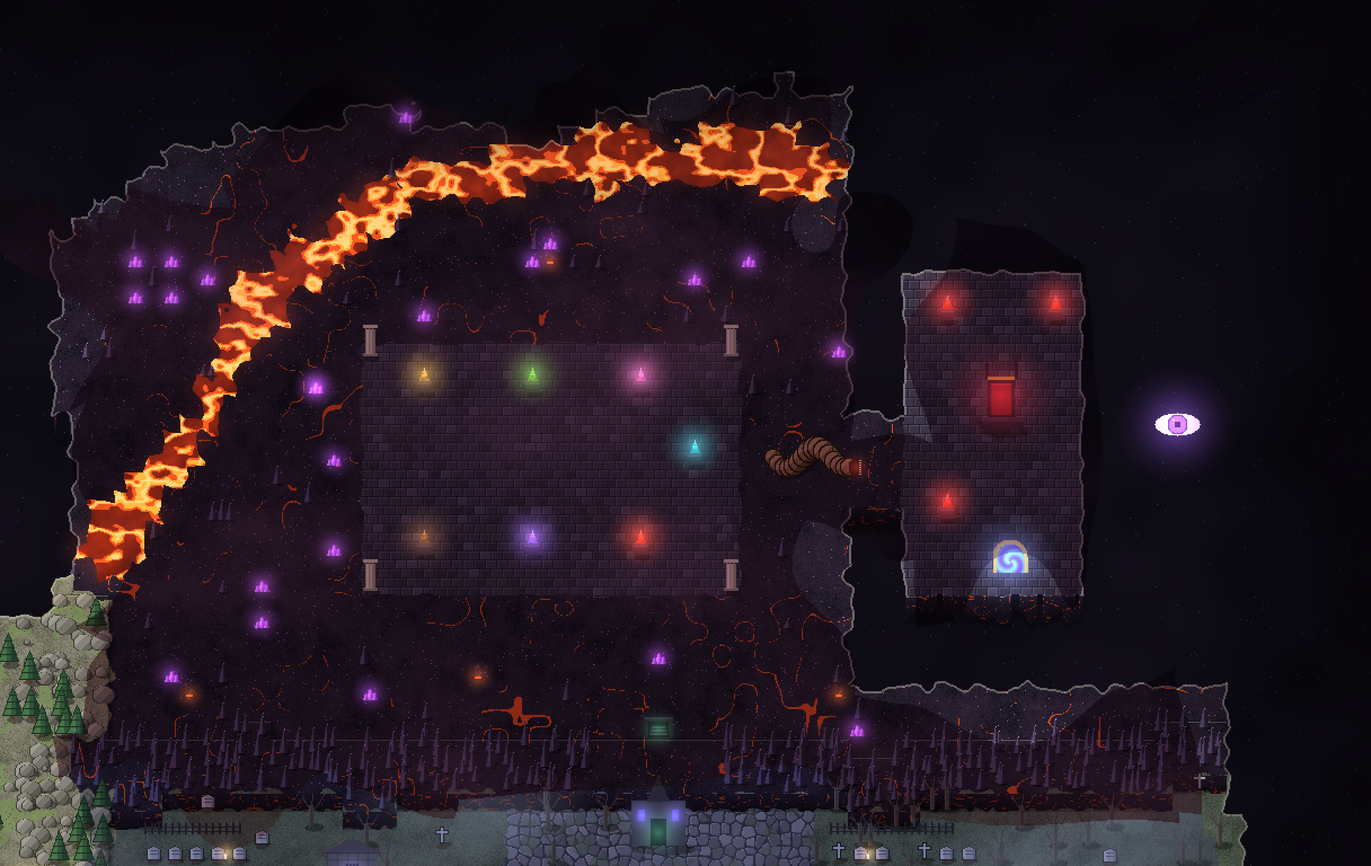
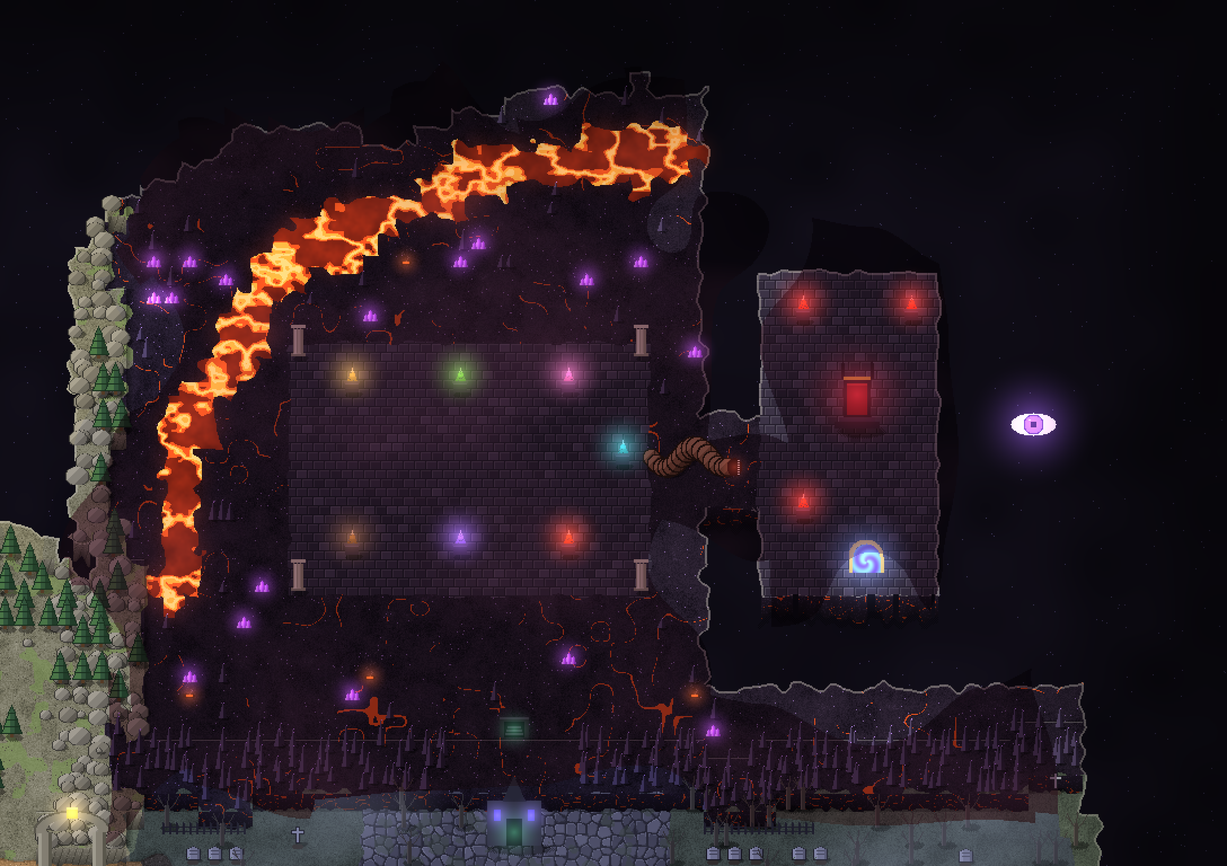
맵 시안 — 4격을 거인들의 땅답게 크게: 가운데에서 위아래로 부푼 고원(약 두 배), 숲 쪽으로만 트이고 왕국 · 지하수로와는 낭떠러지, 바위 등성이를 동쪽으로 밀고 5 · 6격을 그만큼 옮김. 거인 키만 한 바위 · 돌무지 · 땅에 꽂힌 거인의 칼 · 뼈 하나 더. 숲에서 4격 가는 흙길은 좁게

diff --git a/design/map-concept/render.js b/design/map-concept/render.js
@@ -163,17 +163,28 @@ mass(6, 28, 67, 62, 9, 4, 12);
 mass(9, 60, 65, 92, 9, 4, 13);
 box(8, 2, 24, 22, GRASS);                             // 성 자리는 깎이지 않게
 blob(40, 99, 21, 10, GRASS, 0, 0, 0.3, 14);           // 맨 아래 — 처음을 품은 바위
-mass(60, 35, 108, 62, 6, 4, 15);                      // 가운데 목
-mass(103, 5, 168, 89, 14, 5, 19);                     // 오른쪽 덩이
-// 오른쪽 덩이의 왼쪽 아래는 목 밑에서 비스듬히 비어 있음
-for (let y = 60; y < H; y++) for (let x = 100; x < 126; x++) if (y > 66 + (x - 103) * 1.14 + (fbm(x * 0.12, y * 0.12, 18) - 0.5) * 4) paint(x, y, VOID);
+const colMask = ter.map(t => (t !== VOID ? 1 : 0));   // 왼쪽 기둥 자리 (격 나누기에 씀)
+// 가운데 — 숲과 맞닿는 띠, 그리고 위아래로 크게 부푼 거인의 고원
+mass(62, 33, 118, 62, 6, 4, 15);
+mass(68, 22, 114, 74, 22, 4, 16);
+const neckMask = ter.map((t, i) => (t !== VOID && !colMask[i] ? 1 : 0));
+mass(113, 5, 168, 89, 14, 5, 19);                     // 오른쪽 덩이
+// 오른쪽 덩이의 왼쪽 아래는 고원 밑에서 비스듬히 비어 있음
+for (let y = 60; y < H; y++) for (let x = 106; x < 136; x++) if (!neckMask[idx(x, y)] && y > 76 + (x - 113) * 0.9 + (fbm(x * 0.12, y * 0.12, 18) - 0.5) * 4) paint(x, y, VOID);
+// 고원은 숲 쪽으로만 트이고, 왕국 · 지하수로와는 낭떠러지로 떨어짐
+for (let y = 0; y < H; y++) for (let x = 60; x < 80; x++) {
+  if (!neckMask[idx(x, y)] || (y >= 32 && y <= 61)) continue;
+  let near = false;
+  for (let dy = -3; dy <= 3 && !near; dy++) for (let dx = -3; dx <= 3; dx++) if (inMap(x + dx, y + dy) && colMask[idx(x + dx, y + dy)]) { near = true; break; }
+  if (near) paint(x, y, VOID);
+}
 
 // ---- 격 나누기 ----
 const wob = (v, s, a) => (vnoise(v * 0.15, 0.5, s) - 0.5) * a;
-const RIDGE = y => (y >= 49 && y <= 55 ? 102 : 102 + wob(y, 52, 4));   // 4격 | 5 · 6격 바위 등성이 (쐐기돌 아치 자리는 곧게)
+const RIDGE = y => (y >= 45 && y <= 51 ? 112 : 112 + wob(y, 52, 4));   // 4격 | 5 · 6격 바위 등성이 (쐐기돌 아치 자리는 곧게)
 const CLIFF = x => (x >= 126 && x <= 146 ? 42 : 42 + wob(x, 53, 3));  // 5격 | 6격 흑요석 벼랑 (대성당 자리는 곧게)
 function zoneAt(x, y) {
-  if (x <= 66 + wob(y, 55, 8) || (x < 80 && (y < 34 || y > 62))) return y >= 93 ? 7 : y >= 62 ? 1 : y >= 31 ? 2 : 3;   // 숲과 고개 사이는 들쭉날쭉
+  if (colMask[idx(x, y)]) return y >= 93 ? 7 : y >= 62 ? 1 : y >= 31 ? 2 : 3;
   if (x < RIDGE(y)) return 4;
   return y < CLIFF(x) ? 6 : 5;
 }
@@ -193,9 +204,9 @@ for (let x = 0; x <= 70; x++) if (ter[idx(x, 62)] !== VOID && zoneAt(x, 62) === 
 blob(39, 101, 9, 6, COBBLE, 7, 0, 0.3, 13);
 box(37, 92, 41, 96, COBBLE, 7, 0);
 // 4격 | 5 · 6격: 바위 등성이 — 쐐기돌 아치(거인왕)가 선 세 칸 고개만 트임
-for (let y = 33; y <= 64; y++) for (let x = 95; x <= 110; x++) {
+for (let y = 0; y < H; y++) for (let x = 104; x <= 122; x++) {
   if (ter[idx(x, y)] === VOID || Math.abs(x - RIDGE(y)) > 2.5) continue;
-  paint(x, y, ROCKY, 4, y >= 51 && y <= 53 ? 1 : 3);
+  paint(x, y, ROCKY, 4, y >= 47 && y <= 49 ? 1 : 3);
 }
 // 5격 | 6격: 흑요석 벼랑 — 대성당 밑 묘실(불사의 왕)로만 지나감
 for (let x = 100; x < W; x++) for (let y = 36; y <= 48; y++) {
@@ -215,14 +226,14 @@ for (let y = 64; y <= 91; y++) for (const x of [29, 30, 46, 47]) paint(x, y, CAN
 
 // ---- 길 (흙 — 픽셀로 그림) ----
 trail([[38, 61], [38, 56], [38, 51], [39, 45], [42, 39], [44, 34], [44, 32]], 2.2, 2);                          // 수문 → 숲 → 왕국 성문
-trail([[38, 51], [46, 50], [54, 51], [62, 49], [70, 50], [78, 48], [86, 50], [94, 52], [106, 52]], 2.4, 2);     // 숲 동쪽 큰길 → 4격 고개 → 쐐기돌 아치
+trail([[38, 51], [46, 50], [54, 51], [62, 49], [70, 50], [78, 48], [86, 49], [94, 48], [102, 48], [116, 48]], 1.6, 2);   // 숲 동쪽 길 → 4격 고원 → 쐐기돌 아치
 trail([[38, 51], [31, 48], [25, 46.5], [19, 46], [15, 45]], 1.4, 2);                                           // 서쪽 — 통나무 다리 건너 오크 야영지
 trail([[46, 50], [50, 45], [54, 42]], 1.1, 2);                                                                 // 마녀의 오두막으로 가는 좁은 길
-trail([[80, 49], [80, 45]], 1.5, 4);                                                                           // 눈 덮인 봉우리 돌계단
-trail([[86, 50], [89, 47]], 1.5, 4);                                                                           // 돌 고리
-trail([[106, 52], [109, 53], [116, 56], [124, 57], [130, 53], [136, 49]], 2.2, 5);                              // 아치 → 대성당
-trail([[116, 56], [118, 64], [124, 72], [132, 76]], 1.5, 5);
-trail([[130, 53], [140, 61], [150, 64], [158, 70]], 1.5, 5);
+trail([[88, 48.5], [88, 37]], 1.3, 4);                                                                         // 눈 덮인 봉우리 돌계단
+trail([[96, 48], [98, 44]], 1.3, 4);                                                                           // 돌 고리
+trail([[116, 48], [118, 52], [126, 55], [132, 52], [136, 49]], 2.2, 5);                                         // 아치 → 대성당
+trail([[126, 55], [124, 64], [128, 72], [134, 78]], 1.5, 5);
+trail([[132, 52], [142, 60], [152, 64], [158, 70]], 1.5, 5);
 
 // ---- 3격 왕국 — 성문에서 북서쪽 성까지 옛 큰길 · 깨진 포석 광장 · 성 ----
 road([[44, 28], [41, 22], [33, 17], [23, 14]], 3, COBBLE, 3, 2, 0.4);
@@ -230,17 +241,18 @@ blob(36, 9, 5, 3.5, TILES, 3, 2, 0.5, 31);        // 옛 광장 (마른 분수)
 box(11, 5, 21, 19, TILES, 8, 2);                  // 몰락한 왕의 성 — 어둑한 돌바닥의 큰 방 (격 3 의 일부, 빛만 따로)
 
 // ---- 4격 — 눈 덮인 봉우리 · 바위 단 ----
-blob(80, 40, 7, 4, SNOW, 4, 2, 0.35, 16);
-blob(94, 58, 4.5, 2.4, ROCKY, 4, 2, 0.4, 23);
+blob(88, 31, 11, 5.5, SNOW, 4, 2, 0.35, 16);
+blob(84, 64, 7, 3.5, ROCKY, 4, 2, 0.4, 23);
+blob(100, 60, 5, 3, ROCKY, 4, 2, 0.4, 24);
 
 // ---- 5격 — 네 말의 기사 광장 · 대성당 앞뜰 ----
-blob(126, 66, 5, 3, PAVE, 5, 1, 0.3, 26);
+blob(130, 61, 4.5, 2.8, PAVE, 5, 1, 0.3, 26);
 box(128, 44, 144, 49, PAVE, 5, 1);
 
 // ---- 6격 — 용암 강 · 칠죄종 홀 · 벌레의 굴 · 왕좌 ----
-road([[105, 30], [110, 24], [114, 16], [122, 10], [134, 8], [146, 9]], 2.4, LAVA, 6, 1, 0.8, 41);
-box(120, 19, 140, 32, TILES, 6, 1);               // 칠죄종 홀 바닥
-box(141, 23, 149, 27, OBSID, 6, 1);               // 벌레가 막은 굴
+road([[117, 32], [118, 24], [123, 14], [134, 9], [146, 8]], 2.4, LAVA, 6, 1, 0.8, 41);
+box(124, 19, 143, 32, TILES, 6, 1);               // 칠죄종 홀 바닥
+box(144, 23, 149, 27, OBSID, 6, 1);               // 벌레가 막은 굴
 box(150, 15, 159, 32, TILES, 6, 1);               // 왕좌의 방
 // 왕좌의 방은 어둠으로 내민 끝 — 세계수를 먹는 벌레의 굴로만 들어감
 for (let y = 0; y <= 37; y++) for (let x = 147; x < W; x++) {
@@ -920,6 +932,21 @@ function giantSilhouette(px, py) {
     glow(px, py - 43, 12, [255, 230, 160], 0.3);
   });
 }
+function giantSword(px, py) {
+  // 땅에 꽂힌 거인의 칼 — 사람 몇 배 길이, 녹슬고 이가 빠짐
+  rubble(px, py + 2, 4, '#8a8474');
+  add(py, () => {
+    shadow(px + 14, py + 2, 22, 4);
+    for (let j = 0; j < 64; j++) for (let i = -4; i <= 4; i++) {
+      if (j > 60 && Math.abs(i) > 4 - (j - 60)) continue;
+      if (hash(i, j, 121) < 0.04 && Math.abs(i) === 4) continue;                // 이가 빠진 날
+      put(px + i, py - j, hex(i < -1 ? '#c8ccd0' : i > 1 ? '#6e7276' : (j % 9 === 0 ? '#8a6a52' : '#a0a4a8')));
+    }
+    rect(px - 14, py - 68, 29, 5, hex('#5a4a3a')); rect(px - 14, py - 68, 29, 1, hex('#8a7a62'));
+    rect(px - 3, py - 86, 7, 18, hex('#4a3626')); for (let j = 0; j < 18; j += 3) rect(px - 3, py - 86 + j, 7, 1, hex('#2e2016'));
+    ellipse(px + 0.5, py - 89, 5, 4, hex('#7a6a52'));
+  });
+}
 function horse(px, py, col) {
   add(py, () => {
     shadow(px + 3, py + 2, 12, 3);
@@ -1198,7 +1225,6 @@ for (const [x, y] of [[47, 57], [56, 45], [30, 40], [16, 56], [60, 57], [14, 36]
 hut(54, 40); keepClear(54, 40, 4);
 orcCamp(13, 44); keepClear(13, 44, 4.5);
 logBridge(21, 46, 4);
-for (const [x, y, s] of [[57, 52.6, 1], [63, 47.4, 1.1], [69, 52.4, 1], [75, 47.6, 1.1]]) footprint(...P(x, y, 8, 8), s);   // 숲 밖으로 이어지는 거인의 발자국
 for (let k = 0; k < 110; k++) { const x = 6 + hash(k, 1, 70) * 61, y = 31 + hash(k, 2, 70) * 31; if (ter[idx(x | 0, y | 0)] === GRASS && bio[idx(x | 0, y | 0)] === 2) mushroom(...P(x | 0, y | 0, 4 + hash(k, 3, 70) * 8 | 0, 10), hash(k, 4, 70) < 0.5 ? '#7ad0ff' : '#c890ff'); }
 for (let k = 0; k < 90; k++) { const x = 6 + hash(k, 5, 71) * 61, y = 31 + hash(k, 6, 71) * 31; if (bio[idx(x | 0, y | 0)] === 2) firefly(x * T, y * T); }
 
@@ -1233,26 +1259,30 @@ for (const x of [15, 17, 19, 21]) for (const y of [10, 17]) column(...P(x, y, 8,
 lightUp(...P(14, 13, 8, 4), 40, 0.85); glow(...P(14, 13, 8, 0), 30, [200, 190, 160], 0.25);
 add(14 * T, () => { const [x, y] = P(14, 12, 8, 0); for (let k = 0; k < 14; k++) put(x - 12 + hash(k, 1, 103) * 24, y - 10 + hash(k, 2, 103) * 30, [240, 232, 210], 0.6); });
 
-// 4격 거인의 고개 — 숲이 성겨지며 이어지는 높은 풀밭에서 바위 고원으로. 전나무 · 큰 바위 · 거인 뼈 · 원소 거인 넷의 돌 고리
-// 숲 가장자리 너머에 앉은 외눈 거인이 큰길에서 보임. 동쪽 바위 등성이는 쐐기돌 아치(거인왕)가 선 고개 하나로만 넘음
-for (const [x, y, r] of [[86, 38, 8], [95, 40, 7], [88, 59, 8], [97, 55, 6], [71, 44, 6]]) rock(...P(x, y, 8, 10), r, '#8e8878');
-ribcage(...P(83, 56, 8, 12), 1.6); skull(...P(89, 54, 8, 12), 1.4);
-for (const [x, y, c] of [[90, 43, '#a8a49a'], [93, 45, '#7ad0ff'], [90, 47, '#ff7a3a'], [87, 45, '#e8f0ff']]) monolith(...P(x, y, 8, 12), c);   // 돌 · 서리 · 불 · 구름
-keepClear(90, 45, 4);
-giantSilhouette(...P(73, 57, 8, 12)); keepClear(73, 57, 3);
-stairs(79, 44, 2);                                                            // 눈 덮인 봉우리로 오르는 돌계단
-for (let k = 0; k < 18; k++) { const x = 72 + hash(k, 1, 73) * 18, y = 35 + hash(k, 2, 73) * 10; if (ter[idx(x | 0, y | 0)] === SNOW) crystal(...P(x | 0, y | 0, 8, 12), '#c8f0ff', 7); }
+// 4격 거인의 고개 — 숲이 성겨지며 이어지는 높은 풀밭에서 위아래로 넓게 부푼 바위 고원으로.
+// 북쪽 눈 덮인 봉우리 · 남쪽 바위 단 · 큰 바위와 돌무지 · 쓰러진 거인의 뼈 · 원소 거인 넷의 돌 고리 · 전나무
+// 숲 가장자리 너머에 앉은 외눈 거인이 길에서 보임. 동쪽 바위 등성이는 쐐기돌 아치(거인왕)가 선 고개 하나로만 넘음
+for (const [x, y, r] of [[76, 40, 15], [94, 54, 12], [104, 36, 16], [92, 69, 13], [106, 60, 14], [72, 44, 9], [100, 26, 11], [86, 71, 11], [79, 52, 9]]) rock(...P(x, y, 8, 10), r, '#8e8878');   // 거인 키만 한 바위
+for (const [x, y] of [[102, 66], [70, 37], [96, 33]]) { rock(...P(x, y, 8, 12), 15, '#8a8474'); rock(...P(x, y, 9, -2), 11, '#9a9484'); rock(...P(x, y, 8, -13), 7, '#a8a292'); rock(...P(x, y, 8, -21), 4, '#b4ae9e'); }   // 돌무지 — 사람 키의 몇 배
+ribcage(...P(80, 57, 8, 12), 1.8); skull(...P(89, 56, 8, 12), 1.6); ribcage(...P(100, 71, 8, 12), 1.3, '#d8d0bc');
+giantSword(...P(95, 64, 8, 12));                                              // 땅에 꽂힌 채 버려진 거인의 칼
+for (const [x, y, c] of [[98, 39, '#a8a49a'], [101, 41, '#7ad0ff'], [98, 43, '#ff7a3a'], [95, 41, '#e8f0ff']]) monolith(...P(x, y, 8, 12), c);   // 돌 · 서리 · 불 · 구름
+keepClear(98, 41, 4);
+giantSilhouette(...P(72, 59, 8, 12)); keepClear(72, 59, 3);
+for (const [x, y, s] of [[57, 51.6, 1], [63, 47.8, 1.1], [69, 51.2, 1], [75, 47.4, 1.1], [81, 49.8, 1]]) footprint(...P(x, y, 8, 8), s);   // 숲 밖으로 이어지는 거인의 발자국
+stairs(87, 36, 2);                                                            // 눈 덮인 봉우리로 오르는 돌계단
+for (let k = 0; k < 30; k++) { const x = 76 + hash(k, 1, 73) * 24, y = 24 + hash(k, 2, 73) * 13; if (ter[idx(x | 0, y | 0)] === SNOW) crystal(...P(x | 0, y | 0, 8, 12), '#c8f0ff', 7); }
 // 바위 등성이 — 큰 바위가 빽빽이 (숲의 나무처럼 길을 막음)
-for (let y = 33; y <= 64; y++) for (let x = 95; x <= 110; x++) {
+for (let y = 0; y < H; y++) for (let x = 104; x <= 122; x++) {
   const i = idx(x, y);
   if (ter[i] !== ROCKY || hgt[i] !== 3) continue;
   for (let k = 0; k < 2; k++) if (hash(x, y, 105 + k) < 0.6) rock(...P(x, y, 3 + hash(x, y, 107 + k) * 10 | 0, 4 + hash(x, y, 109 + k) * 10 | 0), 6 + hash(x, y, 111 + k) * 5, k ? '#7e7868' : '#8e8878');
 }
-keystoneArch(101, 52); keepClear(101, 52, 3);
+keystoneArch(111.5, 48); keepClear(112, 48, 3);
 
 // 5격 시체가 걷는 도시 — 쐐기돌 아치를 넘으면 바로. 쇠울타리로 두른 묘지 구획(묘비가 줄지어) · 영묘 · 본 드래곤 · 네 말의 기사 석상 · 까마귀
 // 북쪽 흑요석 벼랑에 기대 선 대성당 — 그 밑 묘실 계단은 불사의 왕이 막음, 벼랑 너머가 6격
-for (const [x0, y0, w, h] of [[108, 46, 6, 3], [146, 46, 8, 4], [107, 60, 6, 4], [134, 66, 7, 4], [126, 80, 8, 4], [150, 74, 7, 4], [114, 70, 6, 3], [156, 64, 6, 3], [138, 74, 5, 3]]) {
+for (const [x0, y0, w, h] of [[117, 46, 5, 3], [147, 46, 7, 4], [116, 59, 6, 4], [136, 66, 7, 4], [126, 81, 7, 3], [150, 74, 7, 4], [118, 68, 5, 3], [156, 62, 6, 3], [138, 74, 5, 3]]) {
   fence(...P(x0, y0, 0, 4), w * 2 + 3); fence(...P(x0, y0 + h, 0, 14), w * 2 + 3);
   for (let y = y0 + 1; y < y0 + h; y += 1.5) for (let x = x0 + 0.5; x < x0 + w; x += 1.2) {
     if (hash(x * 10, y * 10, 73) < 0.15) continue;                          // 빈 자리 몇 군데 — 파헤쳐진 무덤
@@ -1260,29 +1290,29 @@ for (const [x0, y0, w, h] of [[108, 46, 6, 3], [146, 46, 8, 4], [107, 60, 6, 4],
     if (hash(x * 3, y * 7, 75) < 0.12) candle(x * T + 6, y * T + 10);
   }
 }
-for (const [x, y] of [[112, 56], [146, 58], [120, 82]]) coffin(...P(x, y, 8, 12));
-for (const [x, y] of [[119, 48], [158, 56], [142, 82]]) mausoleum(x, y);
-skull(...P(154, 61, 8, 12), 1.5); ribcage(...P(146, 72, 8, 12), 1.3, '#d8d2c2');
-for (const [x, y, c] of [[123, 64, '#f0ece0'], [129, 64, '#b0302a'], [123, 67, '#2a2830'], [129, 67, '#a8c0a0']]) horse(...P(x, y, 8, 12), c);
-keepClear(126, 66, 4);
-for (let k = 0; k < 18; k++) crow(...P(106 + hash(k, 1, 75) * 60 | 0, 46 + hash(k, 2, 75) * 42 | 0, 8, 4));
+for (const [x, y] of [[121, 56], [146, 58], [130, 86]]) coffin(...P(x, y, 8, 12));
+for (const [x, y] of [[122, 76], [160, 54], [144, 84]]) mausoleum(x, y);
+skull(...P(154, 58, 8, 12), 1.5); ribcage(...P(147, 69, 8, 12), 1.3, '#d8d2c2');
+for (const [x, y, c] of [[128, 60, '#f0ece0'], [132, 60, '#b0302a'], [128, 63, '#2a2830'], [132, 63, '#a8c0a0']]) horse(...P(x, y, 8, 12), c);
+keepClear(130, 61, 4);
+for (let k = 0; k < 18; k++) crow(...P(116 + hash(k, 1, 75) * 50 | 0, 46 + hash(k, 2, 75) * 42 | 0, 8, 4));
 add(46 * T + 14, () => { const [x, y] = P(136, 46, 8, 14); shadow(x + 6, y + 3, 30, 6); rect(x - 24, y - 40, 48, 40, hex('#4e4c58')); for (let j = 0; j < 22; j++) for (let i = -10 + j * 0.45; i <= 10 - j * 0.45; i++) put(x + i, y - 40 - j, hex('#3a3844')); rect(x - 7, y - 24, 14, 24, hex('#120e18')); for (const sx of [-18, 12]) { rect(x + sx, y - 32, 6, 10, hex('#6a5ac8')); glow(x + sx + 3, y - 27, 20, [120, 100, 240], 0.6); } glow(x, y - 12, 30, [100, 220, 160], 0.5); });
 add(80 * T, () => { const [px, py] = P(158, 80, 8, 12); rect(px - 8, py - 10, 16, 10, hex('#2a2830')); rect(px - 5, py - 8, 10, 8, hex('#0a0810')); glow(px, py - 4, 14, [180, 120, 255], 0.35); });   // 까마귀 왕이 숨은 지하 묘실 (숨은 입구)
 
 // 6격 마계의 왕좌 — 묘실 계단으로 올라오면 칠죄종 일곱 받침의 홀 → 세계수를 먹는 벌레가 메운 굴 → 어둠으로 내민 왕좌의 방(마왕), 그 너머 어둠 속 눈(관측자) · 문의 광장 문
 add(40 * T + 14, () => { const [x, y] = P(136, 40, 8, 14); rect(x - 13, y - 18, 26, 18, hex('#2a2830')); rect(x - 13, y - 18, 26, 2, hex('#4a4855')); rect(x - 9, y - 14, 18, 14, hex('#0a0810')); for (let s = 0; s < 3; s++) rect(x - 8 + s, y - 4 - s * 3, 16 - s * 2, 2, hex('#3a3844')); glow(x, y - 7, 24, [100, 220, 160], 0.45); });   // 묘실에서 올라오는 계단 입구
-keepClear(130, 26, 12); keepClear(154, 24, 7);
-const sins = [['#c8a040', 123, 21], ['#6ac040', 129, 21], ['#e070b0', 135, 21], ['#8a5a30', 123, 30], ['#a070ff', 129, 30], ['#ff4a2a', 135, 30], ['#40c0c0', 138, 25]];   // 탐욕 질투 색욕 폭식 오만 분노 나태
+keepClear(133, 26, 12); keepClear(154, 24, 7);
+const sins = [['#c8a040', 127, 21], ['#6ac040', 133, 21], ['#e070b0', 139, 21], ['#8a5a30', 127, 30], ['#a070ff', 133, 30], ['#ff4a2a', 139, 30], ['#40c0c0', 142, 25]];   // 탐욕 질투 색욕 폭식 오만 분노 나태
 for (const [c, x, y] of sins) pedestal(...P(x, y, 8, 12), c);
-for (const [x, y] of [[120, 19], [140, 19], [120, 32], [140, 32]]) column(...P(x, y, 8, 12));
-worm(145 * T - 4, 25 * T + 6);
+for (const [x, y] of [[124, 19], [143, 19], [124, 32], [143, 32]]) column(...P(x, y, 8, 12));
+worm(146 * T, 25 * T + 6);
 throne(...P(155, 23, 8, 12));
 eye(...P(165, 23, 4, 8));
 portal(...P(156, 31, 0, 12));
 for (const [x, y] of [[152, 17], [158, 17], [152, 28]]) pedestal(...P(x, y, 8, 12), '#ff3a2a');
-for (let k = 0; k < 40; k++) { const x = 104 + hash(k, 1, 76) * 44, y = 5 + hash(k, 2, 76) * 36; if (ter[idx(x | 0, y | 0)] === OBSID && hgt[idx(x | 0, y | 0)] === 1 && openDist[idx(x | 0, y | 0)] > 1) crystal(...P(x | 0, y | 0, 8, 12), '#c050ff', 10); }
-for (let k = 0; k < 80; k++) { const x = 104 + hash(k, 3, 76) * 44 | 0, y = 5 + hash(k, 4, 76) * 36 | 0; if (ter[idx(x, y)] === OBSID && hgt[idx(x, y)] === 1 && openDist[idx(x, y)] > 0.5 && !isReserved(x, y)) spike(...P(x, y, 2 + hash(k, 5, 76) * 12 | 0, 12), 8 + hash(k, 6, 76) * 10 | 0); }
-for (const [x, y] of [[110, 38], [126, 37], [146, 38], [130, 14]]) vent(...P(x, y, 8, 10));
+for (let k = 0; k < 40; k++) { const x = 114 + hash(k, 1, 76) * 34, y = 5 + hash(k, 2, 76) * 36; if (ter[idx(x | 0, y | 0)] === OBSID && hgt[idx(x | 0, y | 0)] === 1 && openDist[idx(x | 0, y | 0)] > 1) crystal(...P(x | 0, y | 0, 8, 12), '#c050ff', 10); }
+for (let k = 0; k < 80; k++) { const x = 114 + hash(k, 3, 76) * 34 | 0, y = 5 + hash(k, 4, 76) * 36 | 0; if (ter[idx(x, y)] === OBSID && hgt[idx(x, y)] === 1 && openDist[idx(x, y)] > 0.5 && !isReserved(x, y)) spike(...P(x, y, 2 + hash(k, 5, 76) * 12 | 0, 12), 8 + hash(k, 6, 76) * 10 | 0); }
+for (const [x, y] of [[118, 38], [128, 37], [146, 38], [130, 14]]) vent(...P(x, y, 8, 10));
 // 흑요석 벼랑 — 가시 바위가 빽빽이 (대성당 뒤 묘실 입구 자리만 비움)
 for (let x = 100; x < W; x++) for (let y = 36; y <= 48; y++) {
   const i = idx(x, y);
@@ -1360,9 +1390,9 @@ const ZOOMS = [
   ['camp', '처음 · 1격 초심자의 지하수로', 4, 58, 72, 110],
   ['forest', '2격 이끼 낀 숲길', 2, 26, 74, 64],
   ['ruins', '3격 무너진 왕국', 2, 0, 70, 34],
-  ['giants', '4격 거인의 고개', 56, 30, 112, 66],
-  ['necro', '5격 시체가 걷는 도시', 98, 36, 172, 92],
-  ['abyss', '6격 마계의 왕좌', 100, 0, 176, 48]
+  ['giants', '4격 거인의 고개', 56, 16, 122, 80],
+  ['necro', '5격 시체가 걷는 도시', 108, 38, 172, 92],
+  ['abyss', '6격 마계의 왕좌', 108, 0, 176, 48]
 ];
 for (const [name, , x0, y0, x1, y1] of ZOOMS) {
   const zw = (x1 - x0) * T * 2, zh = (y1 - y0) * T * 2, z = new Uint8Array(zw * zh * 4);

diff --git a/docs/MAP-REFERENCE-PLAN.md b/docs/MAP-REFERENCE-PLAN.md
@@ -27,7 +27,7 @@
   - 예전 안(첫 공간에서 1 · 4격 둘 다, 갈래 둘)은 3격 → 4격이 160칸 넘게 되돌아 걸어야 해서 버림.
   - 옛 4격(환수)은 신화의 짐승이라 앞쪽에 있기엔 어색해서, 4격을 **거인**으로 새로 만들었습니다 (`docs/RANK-PLAN.md`).
 - **한 장 안의 먼 격(지금보다 한참 센 격)은 처음부터 들어갈 수 있지만 너무 셉니다.** 대신 **지금 격을 깨는 데 지장 없는 곳**에 둡니다 — 지나다니는 길에서 부딪히거나 쫓기지 않게 (배치 규칙은 2-2).
-  - 1~6격에서는 4격이 그 자리 — 2격 숲의 큰길이 동쪽으로 숲을 빠져나가 그대로 이어집니다. 숨은 샛길은 너무 찾기 어려워서 버림 (사용자 결정). 대신 숲이 성겨지고, 길가에 거인 발자국 · 숲 가장자리 너머에 앉은 외눈 거인이 「저긴 세다」를 알려 줍니다.
+  - 1~6격에서는 4격이 그 자리 — 2격 숲의 길이 동쪽으로 숲을 빠져나가 그대로 이어집니다 (길 폭은 좁게, 사용자 결정). 숨은 샛길은 너무 찾기 어려워서 버림 (사용자 결정). 대신 숲이 성겨지고, 길가에 거인 발자국 · 숲 가장자리 너머에 앉은 외눈 거인이 「저긴 세다」를 알려 줍니다.
 - **갈래는 2격 뒤의 3격 하나**, 4 → 5 → 6격은 한 줄 (사용자 결정 (가)). 같은 장의 다음 격은 앞 격 보스를 꺾어야 열립니다 — 1 → 2(던전 가디언), 2 → 3(트롤 킹), 4 → 5(거인왕), 5 → 6(불사의 왕).
 - 구역은 우선 **격마다 일반 몬스터 종류 수만큼**. 입구가 숨은 구역도 만듭니다.
 - **6격**: 넓은 한 공간에 **칠죄종 일곱을 웅장하게** 세우고, **보스(마왕)로 가는 길을 막는 정예는 하나 — 세계수를 먹는 벌레**.
@@ -42,7 +42,7 @@
 ```
    [3격 왕국 · 막다른 성]                                [6격 마계의 왕좌]
           ║ 성벽 · 무너진 성문 (트롤 킹)                       ▲ 묘실 계단 (불사의 왕)
-   [2격 숲] ══ 큰길 ══ [4격 거인의 고개] ══ 쐐기돌 아치 (거인왕) ══ [5격 시체의 도시]
+   [2격 숲] ══ 길 ══ [4격 거인의 고원] ══ 쐐기돌 아치 (거인왕) ══ [5격 시체의 도시]
           ║ 수로 벽 · 수문 (던전 가디언)
    [1격 지하수로]
           ║ 계단
@@ -54,7 +54,8 @@
 - **처음(첫 공간)**: 왼쪽 기둥 맨 아래, 통바위 속 무너진 천장 구멍 아래 — 빛 한 줄뿐인 어두운 방. 북쪽 계단으로 지하수로. 「화신이 데려다 준다」 문(진짜 화신을 삼았을 때)도 여기에.
 - **1격 → 2격**: 지하수로는 숲보다 한 단 낮음. 북쪽 수로 벽의 수문을 던전 가디언이 막고, 그 너머가 처음 보는 바깥(숲). 숲 시내가 그 벽의 배수구로 흘러듦.
 - **2격 → 3격**: 숲 북쪽 끝, 왕국의 바깥 성벽(한 단 높음). 가운데 무너진 성문을 트롤 킹이 막음. 3격은 막다른 곳, 북서쪽 끝 버려진 성에서 몰락한 왕이 기다림 (카벙클은 북쪽 바위턱 폭포 밑). 안뜰의 물이 성벽 밑으로 흘러나가 숲 시내가 됨.
-- **2격 → 4격**: 숲의 큰길이 동쪽으로 그대로 이어짐. 4격은 처음부터 열려 있지만 셈.
+- **2격 → 4격**: 숲의 길이 동쪽으로 그대로 이어짐. 4격은 처음부터 열려 있지만 셈.
+- **4격은 거인들의 땅이라 크게** (사용자 결정) — 가운데에서 위아래로 크게 부푼 고원. 숲 쪽으로만 트이고, 왕국 · 지하수로와는 낭떠러지로 떨어짐 (보스를 건너뛰는 길이 생기지 않게).
 - **4격 → 5격**: 동쪽 바위 등성이를 넘는 세 칸 고개 — 「고개의 쐐기돌」 아치(거인왕)가 막음.
 - **5격 → 6격**: 북쪽 흑요석 벼랑에 기대 선 대성당, 그 밑 묘실 계단을 불사의 왕이 막음 — 벼랑 너머 마계로 나옴 (까마귀 왕은 숨은 묘실).
 - **6격**: 넓은 홀 하나에 칠죄종 일곱이 각자 자리를 지키고(지나가는 길 옆, 피해 갈 수 있게), 어둠으로 내민 왕좌의 방으로 가는 통로는 **세계수를 먹는 벌레가 막습니다.** 마왕을 꺾으면 문의 광장으로 가는 출구가 열리고, 관측자가 그 근처에 나타납니다.

diff --git a/design/map-concept/NOTES.md b/design/map-concept/NOTES.md
@@ -17,7 +17,7 @@
 ```
    [3 왕국 · 막다른 성]                        [6 마계]
           ║ 성벽 · 무너진 성문                    ▲ 묘실 계단
-   [2 숲] ══ 큰길 ══ [4 고개] ══ 쐐기돌 아치 ══ [5 묘지]
+   [2 숲] ══ 길 ══ [4 고원] ══ 쐐기돌 아치 ══ [5 묘지]
           ║ 수로 벽 · 수문
    [1 지하수로]
           ║ 계단
@@ -29,13 +29,14 @@
   떨어져 내린 돌판 · 줄을 긁어 센 돌 · 꺼진 등 · 버려진 가방 · 녹슨 명찰 · 오래된 뼈. 북쪽 계단으로 1격.
 - **1격 초심자의 지하수로** — 숲보다 한 단 낮은 곳. 수로가 가로세로로 가른 아홉 구역(=일반 아홉), 수로 끝 물은 땅 가장자리 밖 어둠으로 쏟아짐.
   등은 거의 꺼졌고 켜진 두엇은 차가운 빛, 쇠창살 · 막아 버린 옛 문 · 고인 물. 북쪽 벽 가운데 수문(던전 가디언), 숲 시내가 그 벽의 배수구로 흘러듦.
-- **2격 이끼 낀 숲길** — 빽빽한 숲. 수문에서 북쪽으로 왕국 성문까지, 가운데 갈림목에서 동쪽으로 큰길.
-  서쪽 시내를 통나무 다리로 건너 오크 장군 야영지(정예), 좁은 길 끝 숲의 마녀 오두막. 큰길이 숲을 빠져나가는 곳부터 길가에 거인의 발자국.
+- **2격 이끼 낀 숲길** — 빽빽한 숲. 수문에서 북쪽으로 왕국 성문까지, 가운데 갈림목에서 동쪽으로 4격 가는 길.
+  서쪽 시내를 통나무 다리로 건너 오크 장군 야영지(정예), 좁은 길 끝 숲의 마녀 오두막. 동쪽 길이 숲을 빠져나가는 곳부터 길가에 거인의 발자국.
 - **3격 무너진 왕국** — 숲보다 한 단 높고 바깥 성벽으로 두름. 성벽은 군데군데 무너지고 덩굴이 덮었고, 가운데 무너진 성문을 트롤 킹이 막음.
   옛 큰길 양옆의 집터 · 기둥 · 석상, 마른 분수 광장, 물에 잠긴 안뜰(히드라 — 넘친 물이 성벽 밑 배수구로 숲에 흘러감), 북쪽 바위턱 폭포 밑(카벙클이 숨은 곳).
   - 막다른 곳. 북서쪽 끝 몰락한 왕의 성: 성벽 안은 어둑한 기둥 홀, 빛은 무너진 지붕에서 옥좌 위로만 떨어지고 왕은 거기서 조용히 기다림.
-- **4격 거인의 고개** — 가운데. 숲이 성겨지며 높은 풀밭 → 바위 고원. 숲 가장자리 너머에 외눈 거인이 앉아 있어 큰길에서 보임.
-  눈 덮인 봉우리(돌계단) · 바위 단 · 쓰러진 거인의 뼈 · 발자국 웅덩이 · 원소 거인 넷의 돌 고리.
+- **4격 거인의 고개** — 가운데, 위아래로 크게 부푼 고원 (거인들의 땅이라 가장 넓게). 숲 쪽으로만 트이고 왕국 · 지하수로와는 낭떠러지로 떨어짐.
+  숲이 성겨지며 높은 풀밭 → 바위 고원. 숲 가장자리 너머에 외눈 거인이 앉아 있어 길에서 보임.
+  북쪽 눈 덮인 봉우리(돌계단) · 남쪽 바위 단과 전나무 숲 · 거인 키만 한 바위와 돌무지 · 쓰러진 거인의 뼈 · 땅에 꽂힌 거인의 칼 · 발자국 웅덩이 · 원소 거인 넷의 돌 고리.
   동쪽 바위 등성이는 큰 바위가 빽빽해 못 넘고, 세 칸 고개에 선 「고개의 쐐기돌」 아치(거인왕)로만 → 5격.
 - **5격 시체가 걷는 도시** — 오른쪽 아래. 쇠울타리 두른 묘지 구획 · 홀로 선 무덤 · 영묘 · 본 드래곤 · 네 말의 기사 광장 · 지하 묘실(까마귀 왕).
   북쪽 흑요석 벼랑(가시 바위가 빽빽함)에 기대 선 불사의 왕의 대성당, 그 밑 묘실 계단으로만 → 6격.
